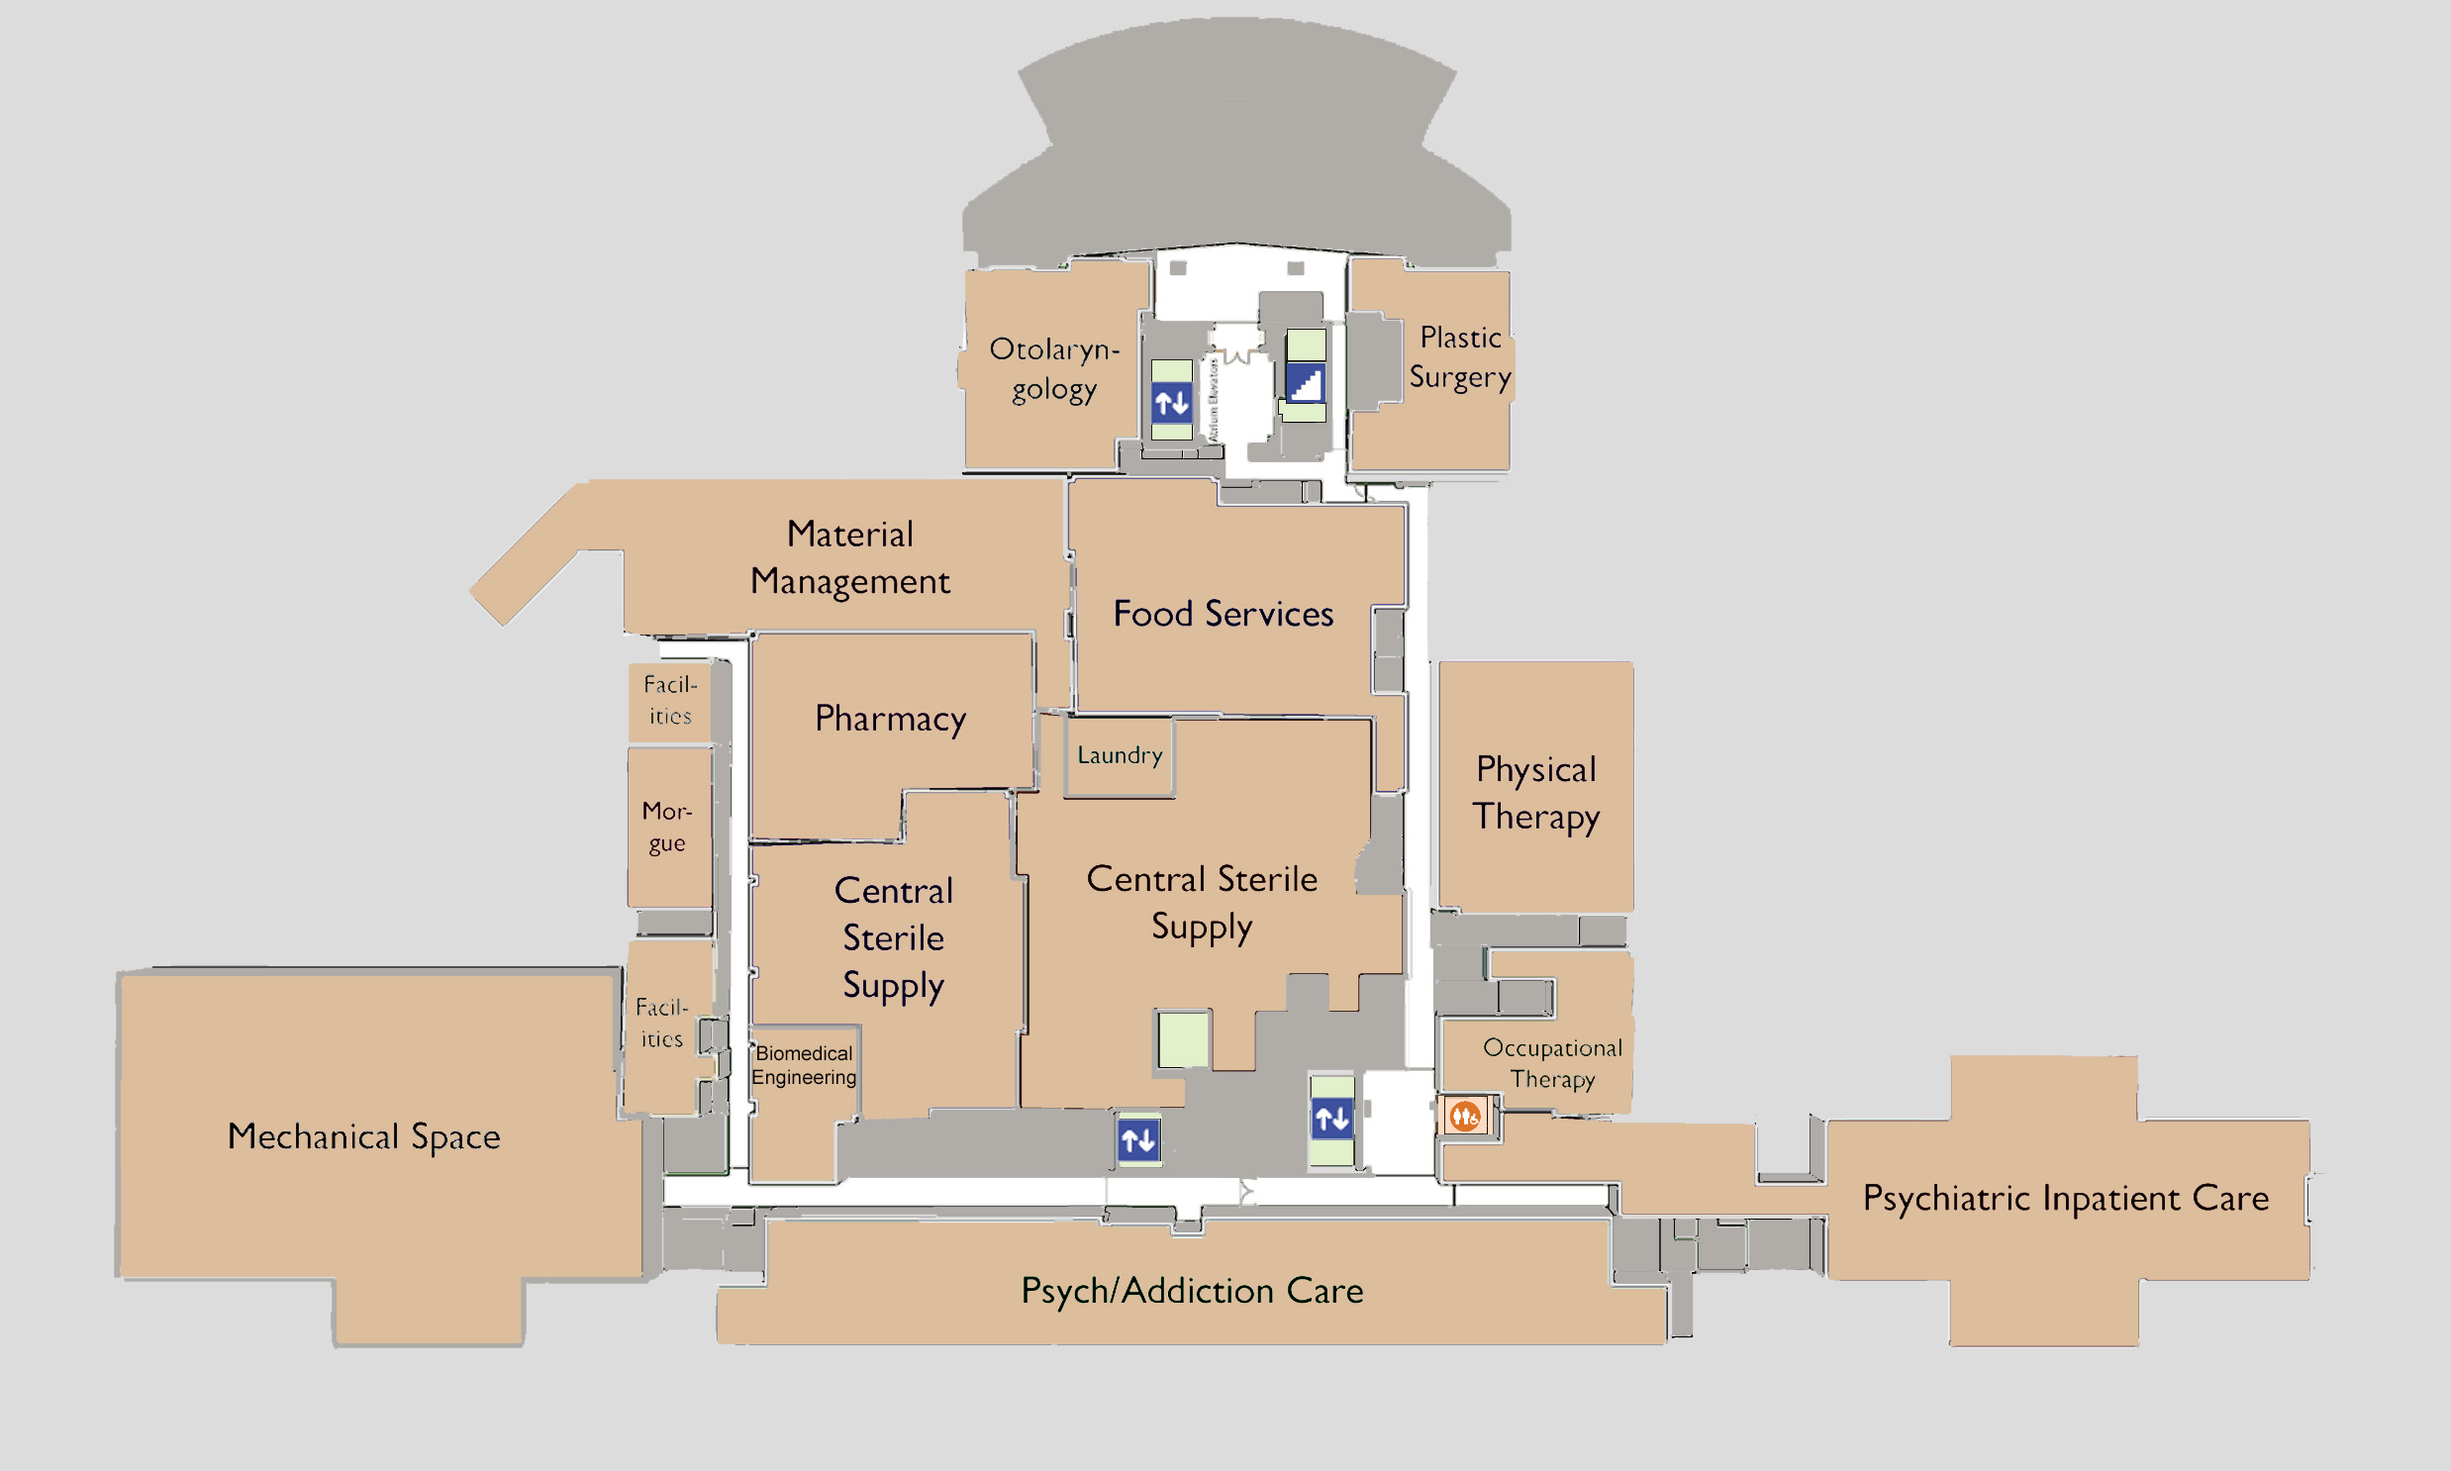
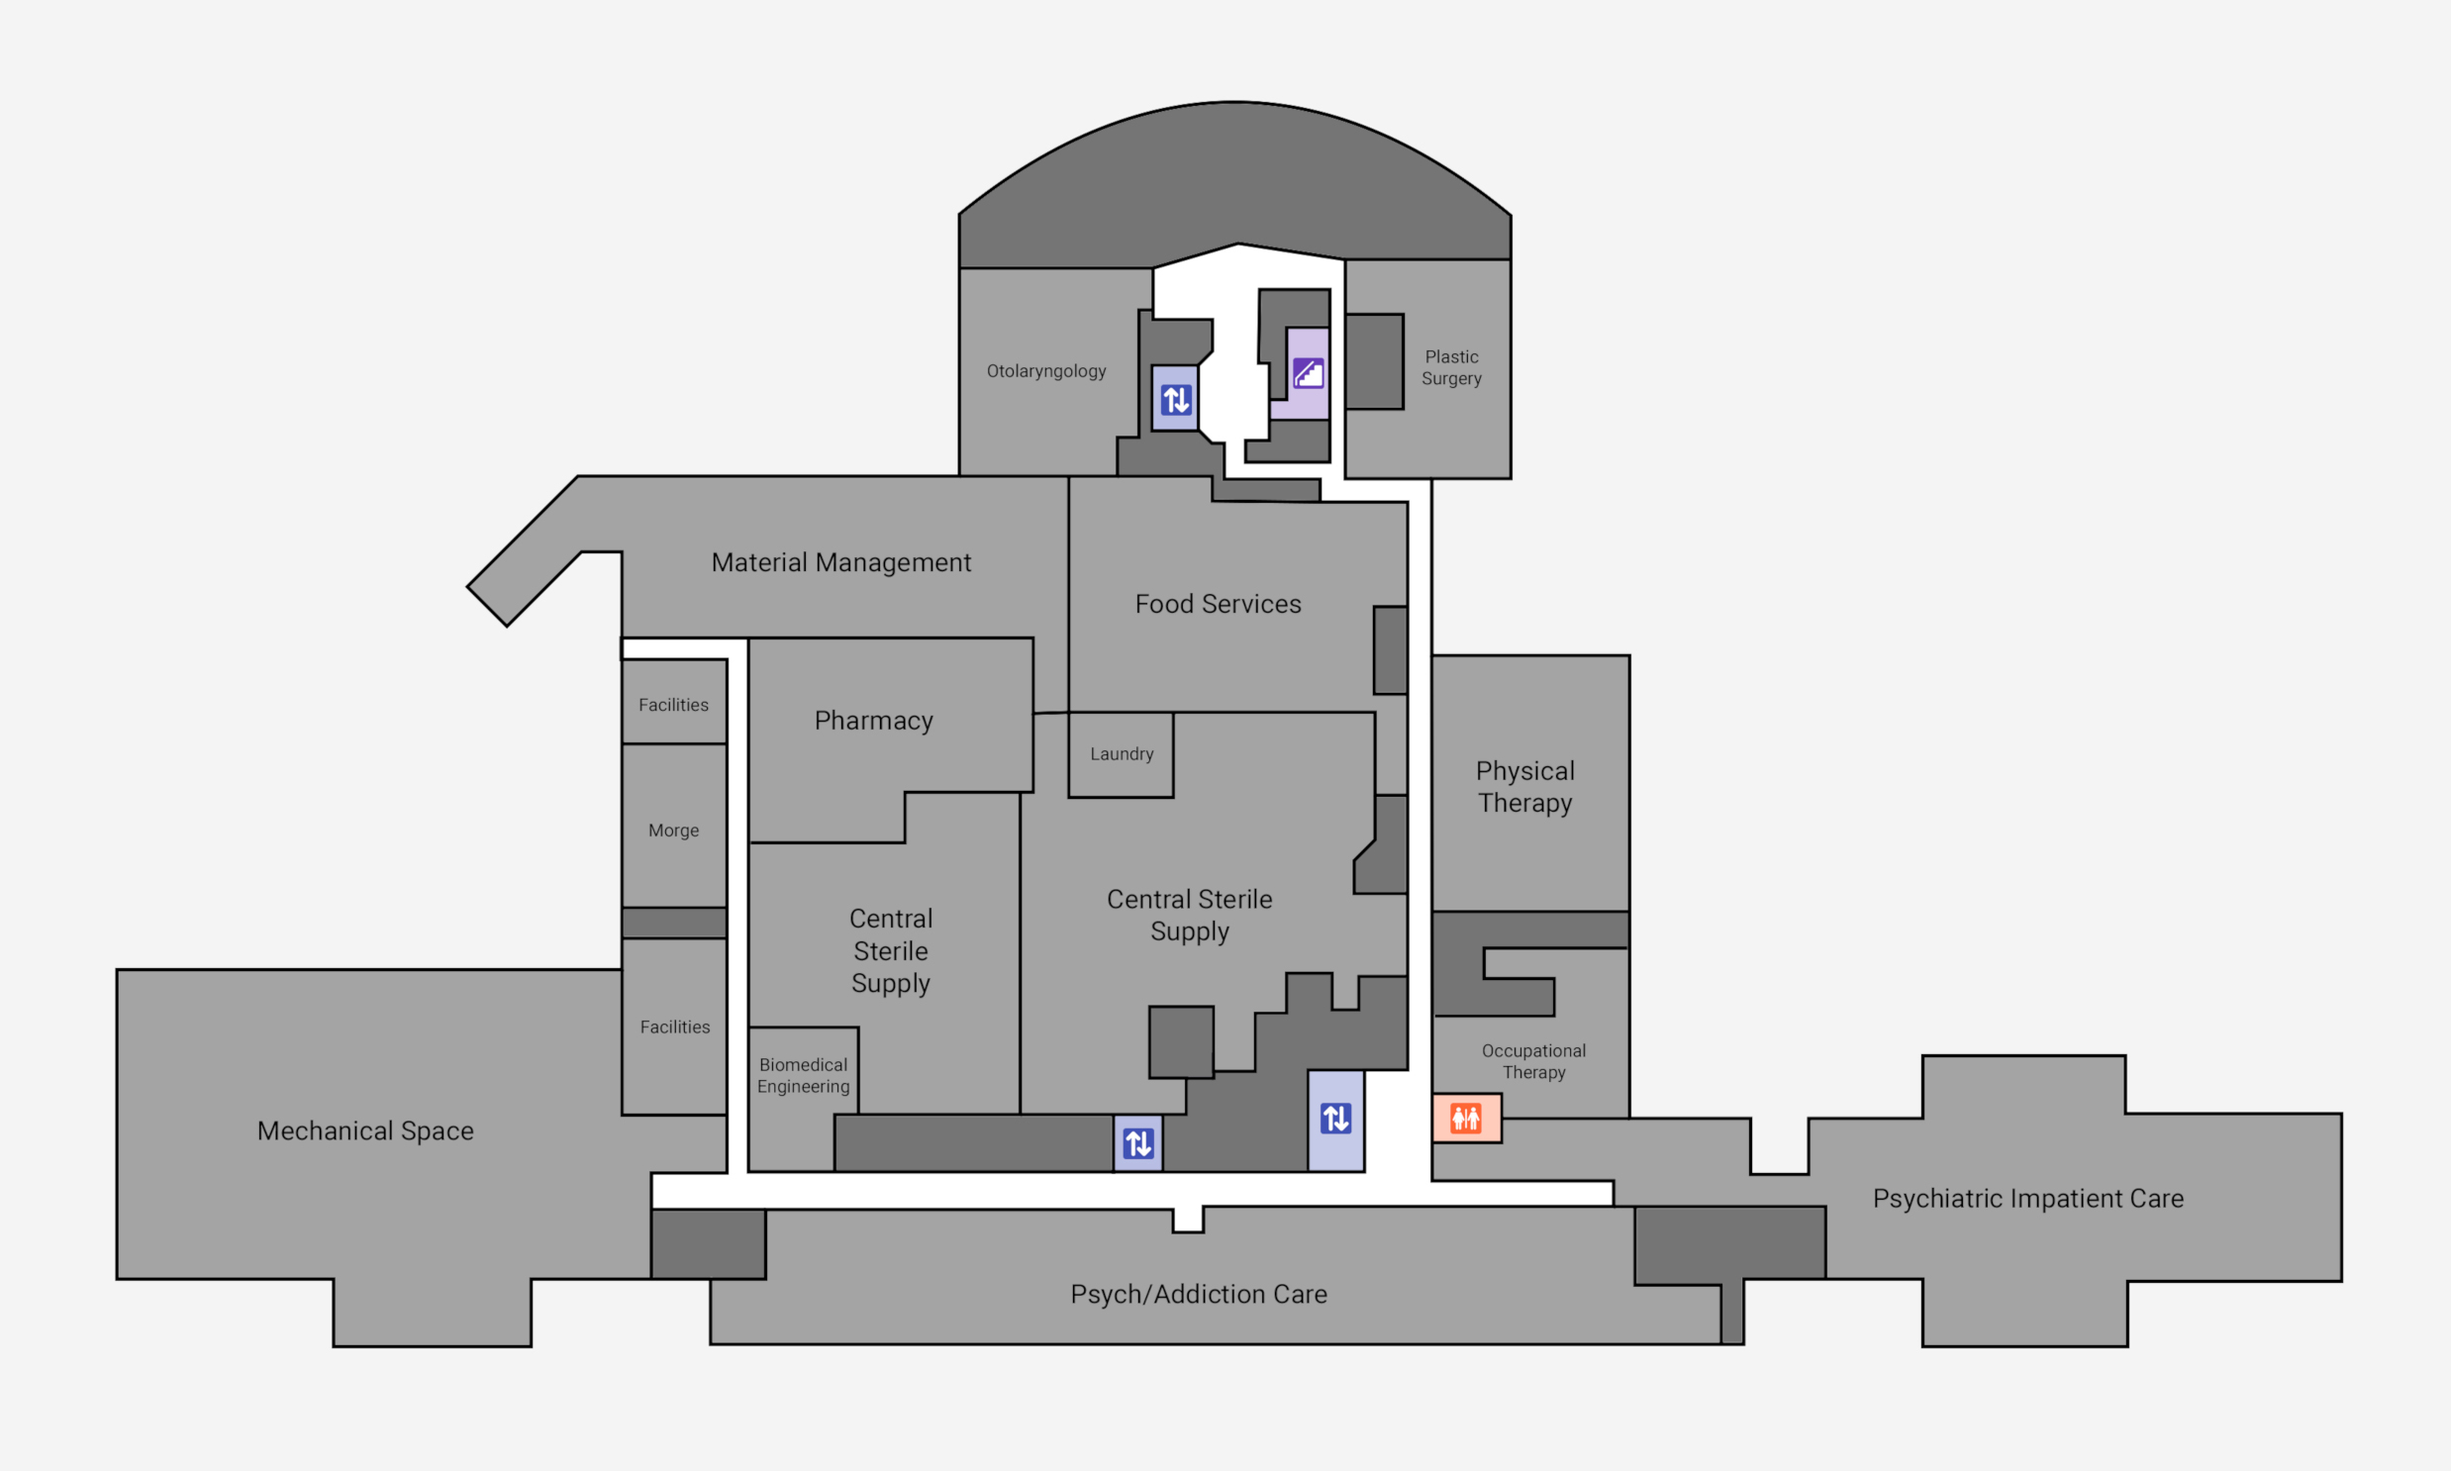
Draw floor change arrows

diff --git a/src/main/java/edu/wpi/cs3733/d20/teamA/map/MapCanvas.java b/src/main/java/edu/wpi/cs3733/d20/teamA/map/MapCanvas.java
@@ -21,6 +21,8 @@ import javafx.scene.paint.Color;
 
 public class MapCanvas extends Canvas {
   private final Image[] floorImages;
+  private final Image upImage;
+  private final Image downImage;
 
   private int lastDrawnFloor = 1;
   private boolean drawAllNodes;
@@ -55,6 +57,10 @@ public class MapCanvas extends Canvas {
     for (int i = 0; i < 5; i++) {
       floorImages[i] = new Image("/edu/wpi/cs3733/d20/teamA/images/Floor" + (i + 1) + ".jpg");
     }
+
+    // Load up/down arrow images
+    upImage = new Image("/edu/wpi/cs3733/d20/teamA/images/up.png");
+    downImage = new Image("/edu/wpi/cs3733/d20/teamA/images/down.png");
 
     viewSpace = new BoundingBox(0, 0, 100, 100);
     setManaged(false);
@@ -157,25 +163,25 @@ public class MapCanvas extends Canvas {
     double startX = center.getX() - (width / 2);
     double startY = center.getY() - (height / 2);
 
-    // Correct center if view is off screen
-    if (startX < 0) {
-      center = center.add(-startX, 0);
-      startX = 0;
+    // Correct center if view is too far away from image
+    if (startX < -(imageWidth / 4)) {
+      center = center.add((-(imageWidth / 4) - startX), 0);
+      startX = -(imageWidth / 4);
     }
 
-    if (startY < 0) {
-      center = center.add(0, -startY);
-      startY = 0;
+    if (startY < (-imageHeight / 4)) {
+      center = center.add(0, (-(imageHeight / 4) - startY));
+      startY = -(imageHeight / 4);
     }
 
-    if ((startX + width) > imageWidth) {
-      double xDiff = (startX + width) - imageWidth;
+    if ((startX + width) > (5 * imageWidth / 4)) {
+      double xDiff = (startX + width) - (5 * imageWidth / 4);
       center = center.subtract(xDiff, 0);
       startX -= xDiff;
     }
 
-    if ((startY + height) > imageHeight) {
-      double yDiff = (startY + height) - imageHeight;
+    if ((startY + height) > (5 * imageHeight / 4)) {
+      double yDiff = (startY + height) - (5 * imageHeight / 4);
       center = center.subtract(0, yDiff);
       startY -= yDiff;
     }
@@ -185,6 +191,7 @@ public class MapCanvas extends Canvas {
 
   public void draw(int floor) {
     // Clear background
+    getGraphicsContext2D().setFill(Color.web("F4F4F4"));
     getGraphicsContext2D().clearRect(0, 0, getWidth(), getHeight());
 
     // Clamp floor to between 1 and 5
@@ -208,15 +215,7 @@ public class MapCanvas extends Canvas {
         // Draw all edges
         floorNodes.forEach(
             node -> {
-              node.getEdges()
-                  .values()
-                  .forEach(
-                      edge -> {
-                        // Skip edges that cross floors for now
-                        if (edge.getEnd().getFloor() == finalFloor) {
-                          drawEdge(edge);
-                        }
-                      });
+              node.getEdges().values().forEach(this::drawEdge);
             });
 
         // Draw nodes
@@ -281,6 +280,13 @@ public class MapCanvas extends Canvas {
 
     // Draw the line in between the points
     graphicsContext.strokeLine(start.getX(), start.getY(), end.getX(), end.getY());
+
+    // Draw up / down arrow if floor changed
+    if (edge.getEnd().getFloor() < edge.getStart().getFloor()) {
+      graphicsContext.drawImage(downImage, end.getX() - 16, end.getY() - 16, 32, 32);
+    } else if (edge.getEnd().getFloor() > edge.getStart().getFloor()) {
+      graphicsContext.drawImage(upImage, end.getX() - 16, end.getY() - 16, 32, 32);
+    }
   }
 
   // Draws a node on the map

diff --git a/src/main/java/edu/wpi/cs3733/d20/teamA/util/ThreadPool.java b/src/main/java/edu/wpi/cs3733/d20/teamA/util/ThreadPool.java
@@ -4,7 +4,14 @@ import java.util.concurrent.ExecutorService;
 import java.util.concurrent.Executors;
 
 public class ThreadPool {
-  private static ExecutorService executor = Executors.newFixedThreadPool(5);
+  private static ExecutorService executor =
+      Executors.newFixedThreadPool(
+          5,
+          r -> {
+            Thread t = Executors.defaultThreadFactory().newThread(r);
+            t.setDaemon(true);
+            return t;
+          });
 
   public static void runBackgroundTask(Runnable runnable) {
     executor.submit(runnable);
